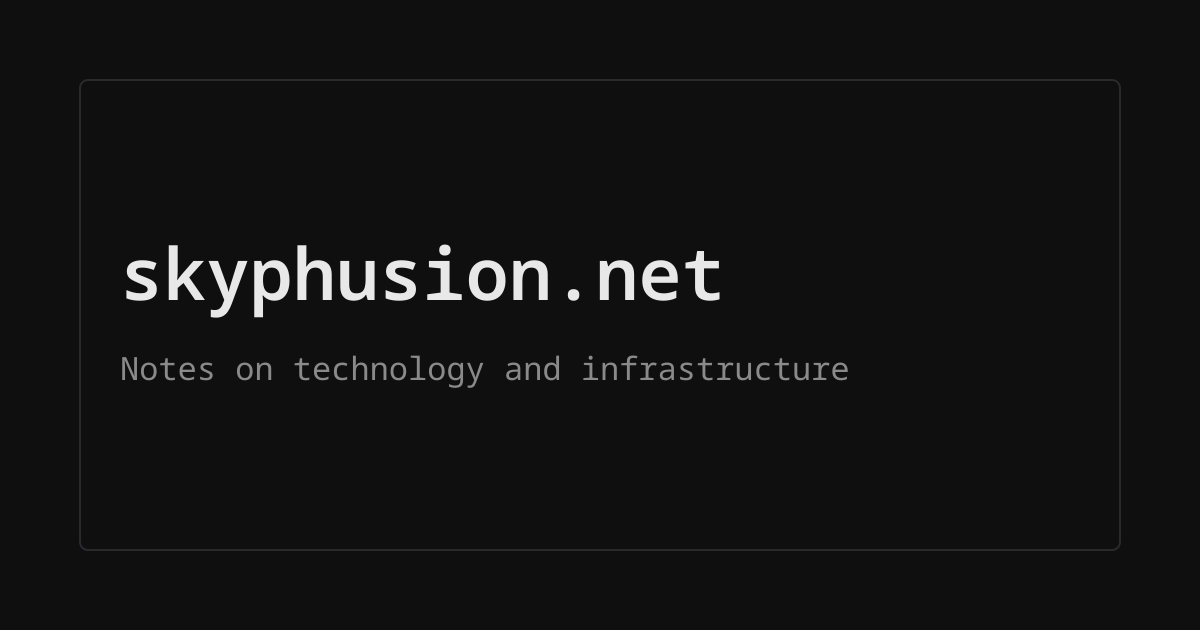
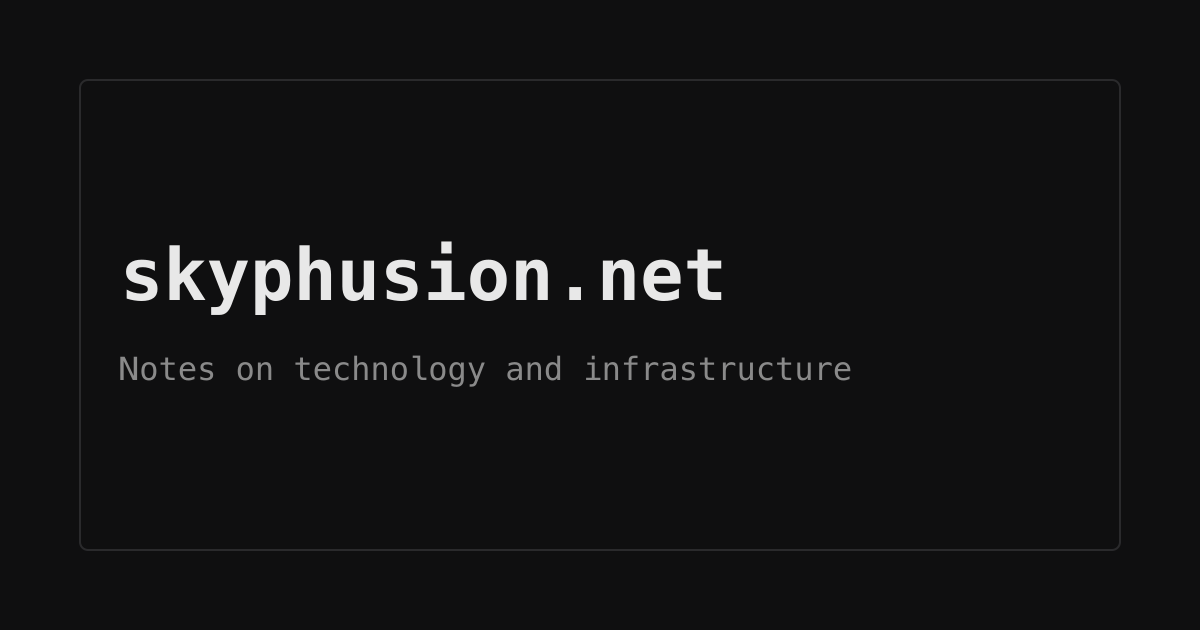
feat(seo): vivijure.com identity mesh and OG alt text
Add vivijure.com to rel=me, sameAs, and footer links. Commit og-default.png
and declare og:image:alt / twitter:image:alt on the default blog card.

diff --git a/src/lib/seo.ts b/src/lib/seo.ts
@@ -5,6 +5,8 @@ export const X_USERNAME = 'skyphusion';
 export const DEFAULT_OG_IMAGE = '/og-default.png';
 export const DEFAULT_OG_IMAGE_WIDTH = 1200;
 export const DEFAULT_OG_IMAGE_HEIGHT = 630;
+export const DEFAULT_OG_IMAGE_ALT =
+  'skyphusion.net: engineering notes on open source AI, Cloudflare Workers, and self-hosted infrastructure by Conrad Rockenhaus.';
 
 export const SOCIAL_PROFILES = [
   `https://x.com/${X_USERNAME}`,
@@ -13,6 +15,7 @@ export const SOCIAL_PROFILES = [
   'https://skyphusion.org',
   'https://github.skyphusion.org',
   'https://github.skyphusion.net',
+  'https://vivijure.com',
 ] as const;
 
 export const PRODUCT_URLS = [
@@ -33,6 +36,7 @@ export const PRODUCT_URLS = [
   'https://skyphusion.org',
   'https://github.skyphusion.org',
   'https://github.skyphusion.net',
+  'https://vivijure.com',
   'https://vivijure.skyphusion.org/welcome',
   'https://hollow.skyphusion.org',
   'https://dustfall.skyphusion.org',
@@ -148,6 +152,7 @@ export function webSiteJsonLd(site: string) {
         'https://github.skyphusion.org',
         'https://github.skyphusion.net',
         'https://skyphusion.net',
+        'https://vivijure.com',
       ],
     },
   };
@@ -185,6 +190,7 @@ export function personJsonLd(site: string) {
         'https://github.com/skyphusion-labs',
         'https://github.skyphusion.org',
         'https://github.skyphusion.net',
+        'https://vivijure.com',
       ],
     },
   };